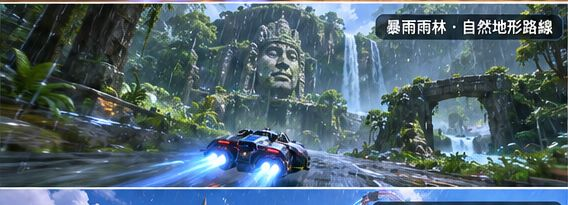
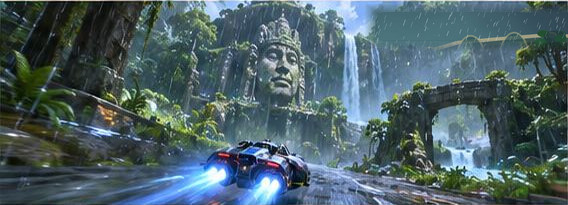
fix(assets): sync five textless track teasers and artwork rules from develop

diff --git a/CLAUDE.md b/CLAUDE.md
@@ -72,3 +72,14 @@ production renderer, physics or sibling branches during a docs-only pass.
 Commit and push to the current branch. `feature/**`, `fix/**`, `refactor/**` branch from and
 merge back into `develop` (`--no-ff`); only `develop` and `hotfix/*` merge into `main`;
 `/release` back-merges `main` into `develop`. Full flow: `.claude/rules/branch-release.md`.
+
+## Track teaser artwork contract (all maps)
+
+Applies to `public/track-teasers/<track-slug>.jpg` in the home/Coming Soon/track-selection UI.
+
+- Final committed asset **must decode as an actual 568 × 205 pixel JPEG** (not merely display at that CSS size); use a consistent high-quality cinematic futuristic racing illustration style. The 3× rule for transparent UI icons does not replace this exact JPEG contract.
+- **Scene only:** never burn in track names, headings, descriptions, buttons, labels, logos, watermarks, captions, or any other text. UI copy belongs in HTML/Vue, not inside the image.
+- **Edge-to-edge scene:** no white/blank borders, padding, letterbox bars, empty canvas corners, or fragments of adjacent maps. Inspect the top/bottom rows and all four edges for seams, other map strips and unwanted overlays. Keep the intended vehicle, road and landmark visibly framed; do not crop off significant content to hide a defect.
+- For the five-track 2026-11-05 correction, **preserve the original artwork, viewpoint, colors and subject** for Monsoon Ruins, Skyfall Archipelago, Stormline Megacity and Volcanic Crown; repair only text, seams and unwanted lower strips with source-faithful reconstruction. **Only Frostbite Canyon is authorized for a full redraw** to match those maps' original cinematic illustration style.
+- Before committing, inspect each decoded JPEG at native 568 × 205 and compare against the source side by side; verify image format and dimensions with an executable check, ensure the image is readable in the real desktop/mobile track-selection UI and check that no unrelated source files changed. CI/test results and manual visual acceptance must be reported separately, never assumed.
+
